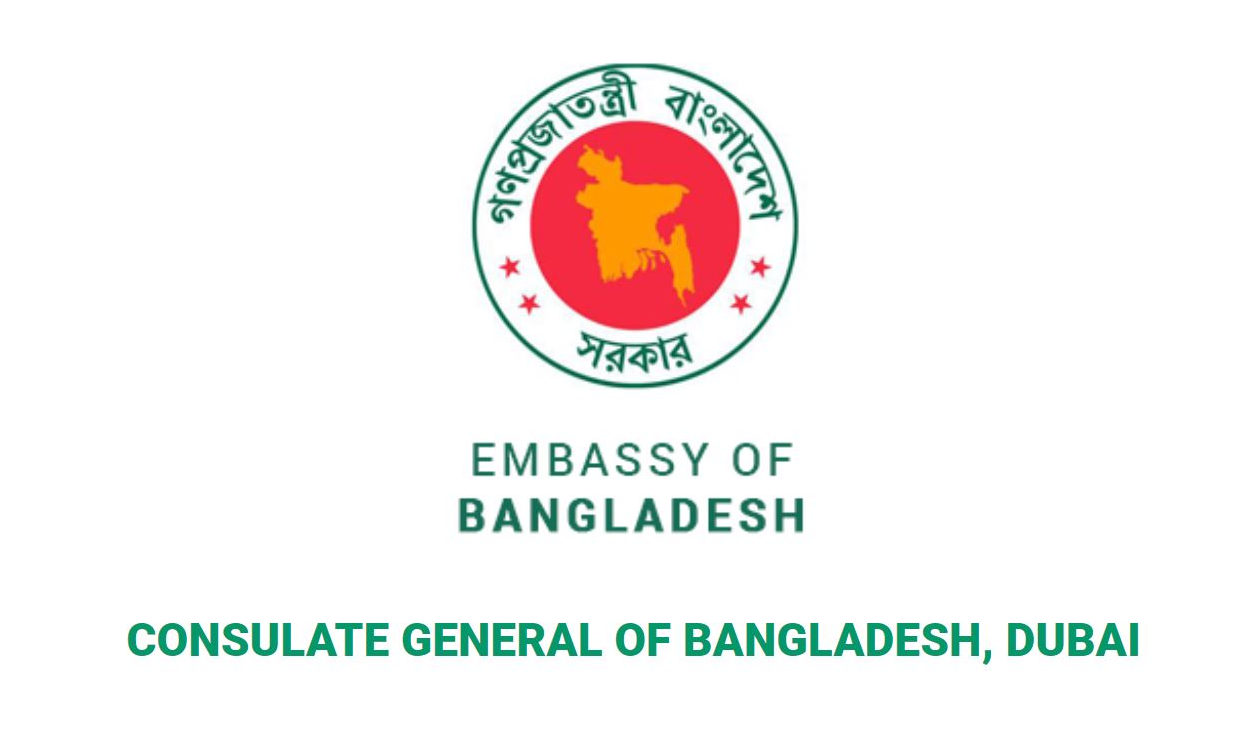
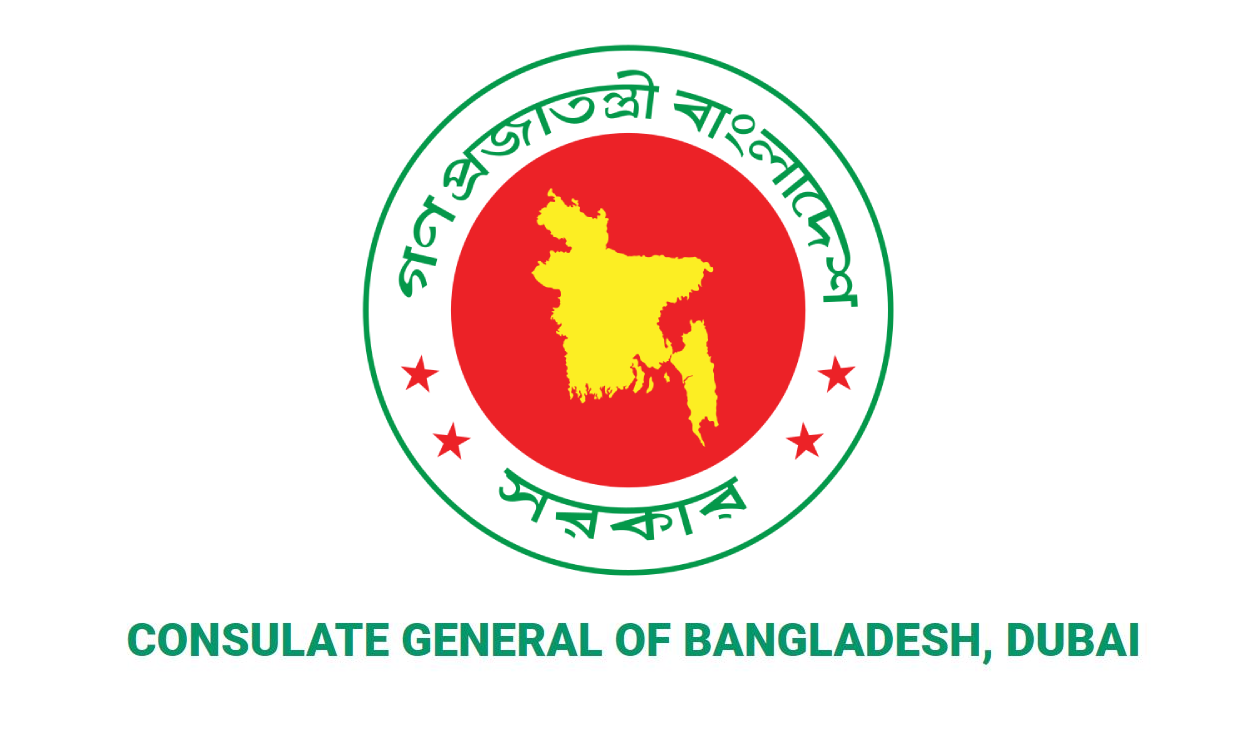
F INIT

Changed region(s): [[0.2792, 0.062, 0.7136, 0.7749]]

diff --git a/web/js/monitor.js b/web/js/monitor.js
@@ -10,7 +10,6 @@ let roleColumnElements = [];
 const upcomingTokenColumnCount = 3;
 
 const fixedAds = [
-    '/images/bangladesh-embassy-ad.png',
     '/images/amaar-clinic-ad.png',
     '/images/amc-ad.png',
 ];
@@ -41,7 +40,7 @@ $(document).ready(function () {
     upcomingTokenRole = window.queueRoles[0].id;
 
     select.change('click', () => {
-        upcomingTokenRole = select.val();
+        upcomingTokenRole = parseInt(select.val());
     });
 
     roleSelectElement.append(select);
@@ -63,9 +62,9 @@ queueContainerElement.prepend(`
 
 queueExtraContainerElement.prepend(`
     <div class="flex text-white" style="background-color: #069;">
-        <div class="w-full h-[72px] flex">
-            <img src="/images/bangladesh-embassy-logo.jpg" class="h-[72px]">
-            <div class="text-5xl uppercase font-bold text-center p-3">Consulate General of Bangladesh, Dubai</div>
+        <div class="w-full h-[72px] flex items-center">
+            <img src="/images/bangladesh-gov.png" class="h-[72px]">
+            <div class="text-2xl uppercase font-bold text-center p-3 flex-auto">Consulate General of Bangladesh, Dubai</div>
         </div>
     </div>
 `);
@@ -168,11 +167,11 @@ const startMonitor = () => {
                     if (queue.status === 1) {
                         calledTokens.push(queue.id);
                         insertNewRowInQueue(queue);
-                        textToSpeech('Token number, ' + queue.token.split('').join(', ') + ', in, counter, ' + queue.room.split('').join(', '));
+                        textToSpeech('Token number, ' + queue.token.split('').join(', ') + ', in, counter, ' + queue.room);
                     } else if (queue.status === 2) {
                         recalledTokens[queue.id] = queue.recall_count;
                         insertNewRowInQueue(queue);
-                        textToSpeech('Recalling, ' + queue.token.split('').join(', ') + ', in, counter, ' + queue.room.split('').join(', '));
+                        textToSpeech('Recalling, ' + queue.token.split('').join(', ') + ', in, counter, ' + queue.room);
                     } else {
                         if (queue.role_id === upcomingTokenRole) insertUpcomingRowInQueue(queue);
                     }
@@ -189,7 +188,7 @@ const startMonitor = () => {
 
                     insertNewRowInQueue(token);
 
-                    textToSpeech('Token number, ' + token.token.split('').join(', ') + ', in, counter, ' + token.room.split('').join(', '));
+                    textToSpeech('Token number, ' + token.token.split('').join(', ') + ', in, counter, ' + token.room);
 
                     roleColumnsElement.find(`[data-id="${token.id}"]`).remove();
                 }
@@ -200,7 +199,7 @@ const startMonitor = () => {
                 if (!recalledTokens.hasOwnProperty(token.id) || recalledTokens[token.id] < token.recall_count) {
                     recalledTokens[token.id] = token.recall_count;
 
-                    textToSpeech('Recalling, ' + token.token.split('').join(', ') + ', in, counter, ' + token.room.split('').join(', '));
+                    textToSpeech('Recalling, ' + token.token.split('').join(', ') + ', in, counter, ' + token.room);
 
                     highlightRecall(token.id);
 

diff --git a/web/css/site.css b/web/css/site.css
@@ -1717,11 +1717,6 @@ input[type="number"]::-webkit-outer-spin-button,
   background-color: rgb(236 252 203 / var(--tw-bg-opacity));
 }
 
-.bg-lime-300 {
-  --tw-bg-opacity: 1;
-  background-color: rgb(190 242 100 / var(--tw-bg-opacity));
-}
-
 .bg-red-200 {
   --tw-bg-opacity: 1;
   background-color: rgb(254 202 202 / var(--tw-bg-opacity));

diff --git a/controllers/QueuesController.php b/controllers/QueuesController.php
@@ -435,9 +435,9 @@ class QueuesController extends _MainController
 
         $this->response->format = Response::FORMAT_RAW;
 
-        if ($count - $served) return true;
+        if ($count - $served > 0) return 1;
 
-        return false;
+        return 0;
     }
 
     public function actionMonitor()
@@ -471,7 +471,7 @@ class QueuesController extends _MainController
 
     public function actionMonitorSocket($lastLoadedId, $firstLoadedId)
     {
-        // Yii::$app->log->targets[0]->enabled = false;
+        Yii::$app->log->targets[0]->enabled = false;
 
         $this->response->format = Response::FORMAT_JSON;
 
@@ -535,7 +535,7 @@ class QueuesController extends _MainController
                         $called[] = [
                             'id' => $updatedToken->id,
                             'token' => $updatedToken->token,
-                            'room' => $roomIdToRoom[$updatedToken->room_id]['room'] . ' - ' . (!is_null($updatedToken->user) ? $updatedToken->user->desk : ''),
+                            'room' => $roomIdToRoom[$updatedToken->room_id]['room'] . ' ' . (!is_null($updatedToken->user) ? $updatedToken->user->desk : ''),
                             'floor' => $roomIdToRoom[$updatedToken->room_id]['floor'],
                         ];
                         break;
@@ -544,7 +544,7 @@ class QueuesController extends _MainController
                             'id' => $updatedToken->id,
                             'token' => $updatedToken->token,
                             'recall_count' => $updatedToken->recall_count,
-                            'room' => $roomIdToRoom[$updatedToken->room_id]['room'] . ' - ' . (!is_null($updatedToken->user) ? $updatedToken->user->desk : ''),
+                            'room' => $roomIdToRoom[$updatedToken->room_id]['room'] . ' ' . (!is_null($updatedToken->user) ? $updatedToken->user->desk : ''),
                             'floor' => $roomIdToRoom[$updatedToken->room_id]['floor'],
                         ];
                         break;

diff --git a/views/queues/kiosk.php b/views/queues/kiosk.php
@@ -14,7 +14,7 @@ KioskAsset::register($this);
 <div class="queues-kiosk">
     <div class="flex flex-col justify-center items-center py-3 min-h-screen">
         <div class="flex flex-col justify-center items-center bg-white sm:max-w-xl w-full rounded-lg">
-            <img src="/images/bangladesh-embassy-logo.jpg" alt="Bangladesh Embassy" class="h-44">
+            <img src="/images/bangladesh-gov.png" alt="Bangladesh Embassy" class="h-44">
             <div class="text-xl font-black text-emerald-600 uppercase my-3">Consulate General of Bangladesh, Dubai</div>
         </div>
         <div id="role-list" class="flex flex-col justify-center items-center w-full gap-y-3 py-3"></div>

diff --git a/views/site/index.php b/views/site/index.php
@@ -7,7 +7,7 @@ $this->title = 'Bangladesh - Home';
 
 <div class="site-index flex flex-col justify-center items-center min-h-screen w-full">
     <div class="flex flex-col items-center">
-        <img src="/images/bangladesh-embassy-logo.jpg" alt="People's Republic of Bangladesh" class="max-w-60">
+        <img src="/images/bangladesh-gov.png" alt="People's Republic of Bangladesh" class="max-w-60">
         <div class="text-lg font-black text-emerald-600 uppercase">Consulate General of Bangladesh, Dubai</div>
     </div>
     <div class="mt-6 uppercase text-slate-400 ">Sponsored by</div>

diff --git a/assets/AppAsset.php b/assets/AppAsset.php
@@ -20,7 +20,7 @@ class AppAsset extends AssetBundle
     public $basePath = '@webroot';
     public $baseUrl = '@web';
     public $css = [
-        'css/site.css?v=123456803',
+        'css/site.css?v=123456804',
     ];
     public $js = [
         'js/common.js'

diff --git a/assets/MonitorAsset.php b/assets/MonitorAsset.php
@@ -18,7 +18,7 @@ class MonitorAsset extends AssetBundle
     public $css = [];
 
     public $js = [
-        'js/monitor.js?v=1725092202',
+        'js/monitor.js?v=1725092203',
     ];
 
     public $jsOptions = ['position' => \yii\web\View::POS_END];

diff --git a/assets/KioskAsset.php b/assets/KioskAsset.php
@@ -23,7 +23,7 @@ class KioskAsset extends AssetBundle
     public $css = [];
 
     public $js = [
-        'js/kiosk.js?v=1725092302',
+        'js/kiosk.js?v=1725092303',
     ];
 
     public $jsOptions = ['position' => \yii\web\View::POS_END];

diff --git a/assets/SelectClassicAsset.php b/assets/SelectClassicAsset.php
@@ -23,7 +23,7 @@ class SelectClassicAsset extends AssetBundle
     public $css = [];
 
     public $js = [
-        'js/lib/select-classic.js?v=1725092200',
+        'js/lib/select-classic.js?v=1725092201',
     ];
     
     public $depends = [

diff --git a/assets/CallAsset.php b/assets/CallAsset.php
@@ -18,7 +18,7 @@ class CallAsset extends AssetBundle
     public $css = [];
 
     public $js = [
-        'js/call.js?v=1725092200',
+        'js/call.js?v=1725092201',
     ];
 
     public $jsOptions = ['position' => \yii\web\View::POS_END];

diff --git a/assets/AdsAsset.php b/assets/AdsAsset.php
@@ -20,7 +20,7 @@ class AdsAsset extends AssetBundle
     public $css = [];
 
     public $js = [
-        'js/ads.js?v=1725092200',
+        'js/ads.js?v=1725092201',
     ];
 
     public $jsOptions = ['position' => \yii\web\View::POS_END];

diff --git a/assets/SlotsAsset.php b/assets/SlotsAsset.php
@@ -23,7 +23,7 @@ class SlotsAsset extends AssetBundle
     public $css = [];
 
     public $js = [
-        'js/slots-update.js?v=1725092200',
+        'js/slots-update.js?v=1725092201',
     ];
     
     public $depends = [
